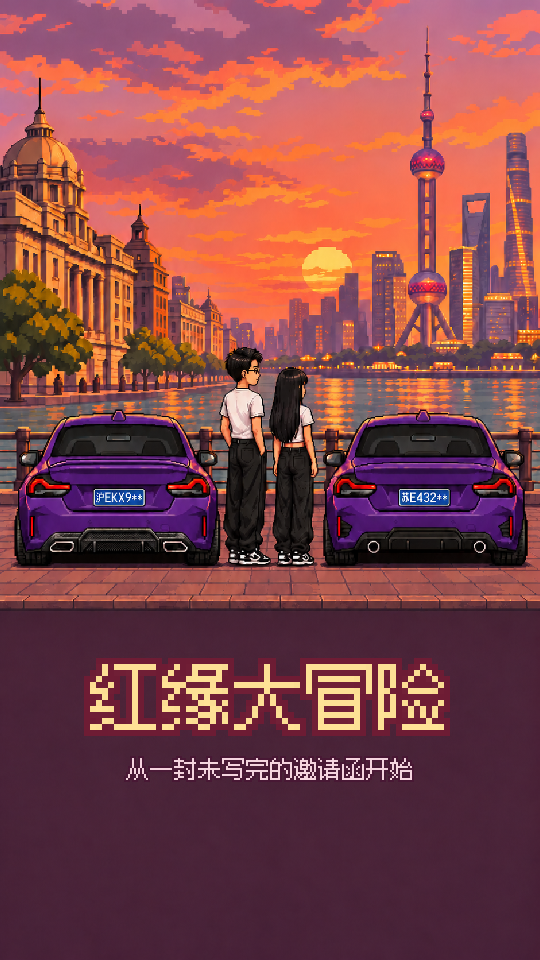
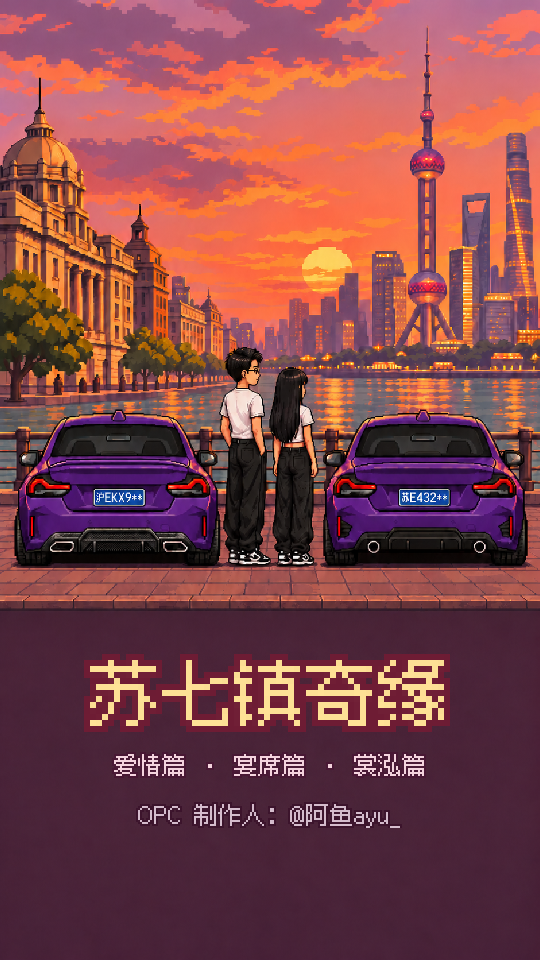
开屏页：游戏名改为苏七镇奇缘，加篇章和制作人

diff --git a/index.html b/index.html
@@ -3,7 +3,7 @@
 	<head>
 		<meta charset="utf-8">
 		<meta name="viewport" content="width=device-width, user-scalable=no, initial-scale=1.0">
-		<title>红缘大冒险</title>
+		<title>苏七镇奇缘</title>
 		<style>
 html, body, #canvas {
 	margin: 0;
@@ -96,8 +96,8 @@ body {
 	<!-- hongyuan-splash --><style>
 #status{visibility:visible;background-color:#48223a}
 #status-splash{top:0;bottom:auto;left:0;right:0;margin:0 auto;width:min(100vw,56.25vh);height:auto;max-width:none;max-height:none;object-fit:contain;image-rendering:pixelated}
-#status-progress{bottom:calc(9% + env(safe-area-inset-bottom,0px));width:min(60vw,320px);accent-color:#e7b65c}
-#hy-loading{position:absolute;left:0;right:0;bottom:calc(9% + env(safe-area-inset-bottom,0px) + 28px);text-align:center;color:#f3dfc8;font:16px/1.4 "PingFang SC","Noto Sans SC",sans-serif;letter-spacing:.08em}
+#status-progress{bottom:calc(4% + env(safe-area-inset-bottom,0px));width:min(60vw,320px);accent-color:#e7b65c}
+#hy-loading{position:absolute;left:0;right:0;bottom:calc(4% + env(safe-area-inset-bottom,0px) + 26px);text-align:center;color:#f3dfc8;font:16px/1.4 "PingFang SC","Noto Sans SC",sans-serif;letter-spacing:.08em}
 </style>
 <meta name="hongyuan-build" content="bfdaa98"></head>
 	<body>
@@ -111,7 +111,7 @@ body {
 
 		<div id="status">
 			<img id="status-splash" class="show-image--true fullsize--true use-filter--true" src="index.png" alt="">
-			<div id="hy-loading">红缘大冒险 · 正在加载</div>
+			<div id="hy-loading">苏七镇奇缘 · 正在加载</div>
 			<progress id="status-progress"></progress>
 			<div id="status-notice"></div>
 		</div>
